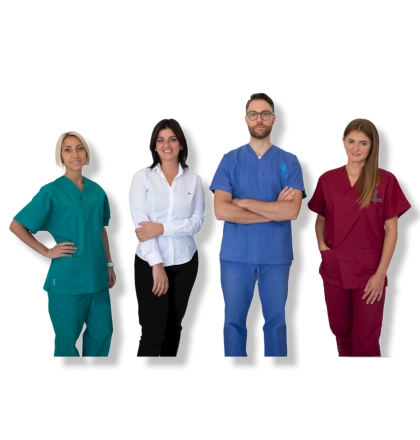
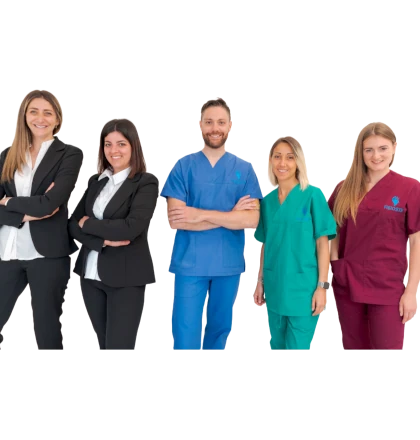
Implementate modifiche richieste dal cliente v8

diff --git a/components/home/components/Hero.tsx b/components/home/components/Hero.tsx
@@ -9,10 +9,10 @@ export const Hero: React.FC<HeroProps> = ({}) => {
         <>
             <div className="h-[48vh] lg:h-[60vh] bg-[#EFEFEF] p-2 hidden lg:flex justify-start bg-no-repeat bg-auto"
                  style={{
-                     backgroundImage: "url('/img/home/hero.webp')",
-                     backgroundSize: '1700px',
+                     backgroundImage: "url('/img/home/fotoStaff.webp')",
+                     backgroundSize: '1200px',
                      backgroundPositionX: '50%',
-                     backgroundPositionY: '15%',
+                     backgroundPositionY: '-45%',
                  }}
             >
                 <div className="container justify-center mt-0 lg:mx-auto hidden lg:flex">
